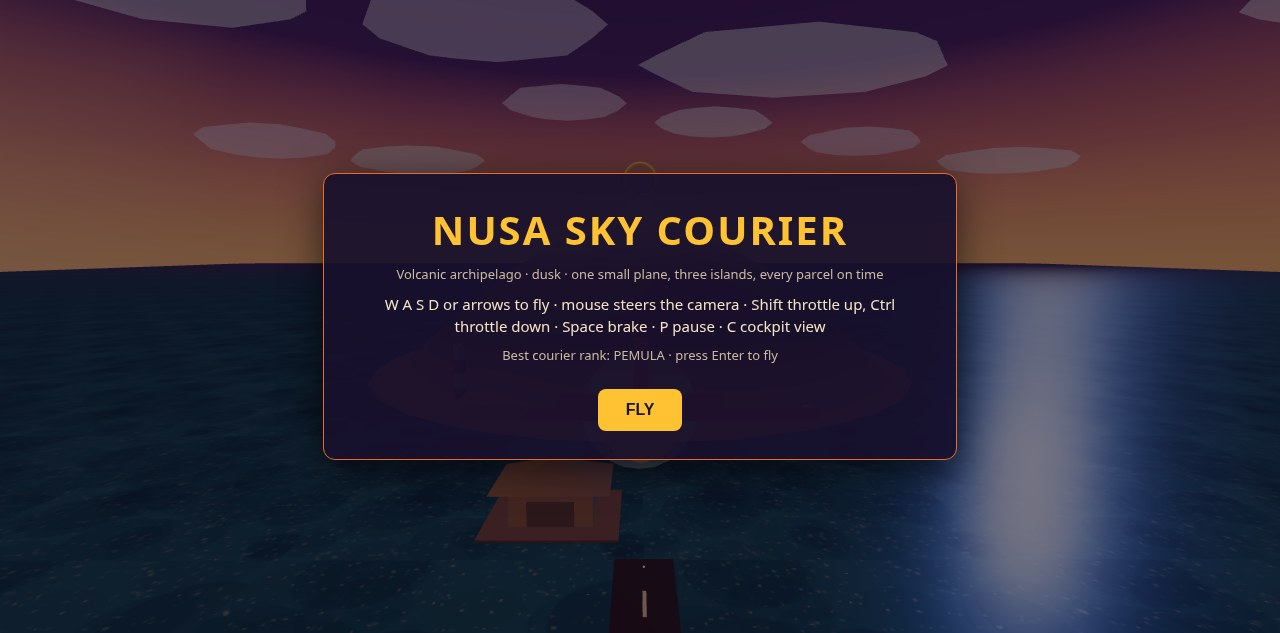
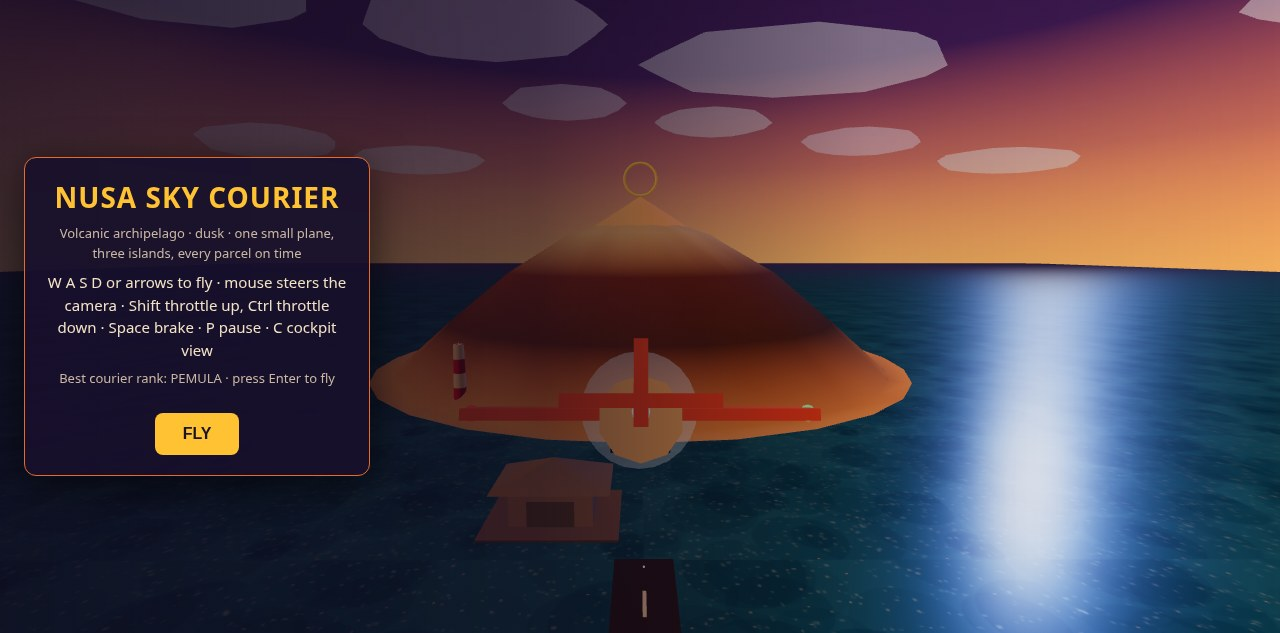
M8-fix (Gemini 2-of-3 AGREE WITH FIXES): shot 1 title docked left-third in shot mode only (volcano+sea+runway beside panel, plane fully clear); shot 3 chase camera yaw +2deg + pitch -80 (ILS mast reads as antenna, tail cross broken by fuselage taper); radar already draws 2 ring blips + plane arrow (

diff --git a/game/src/main.js b/game/src/main.js
@@ -154,6 +154,14 @@ if (shotName) {
   // Cockpit view comes from the shot staging (play = cockpit in M8).
   setCockpit(!!staged.cockpit);
   document.body.classList.toggle('cockpit', isCockpit());
+  // M8-fix, shot 1 only: dock the title card left so the volcano + sea +
+  // runway read beside it on the cover image. Normal play is untouched.
+  if (shotName === 'start') document.body.classList.add('shot-start');
+  // M8-fix, shot 3 only: 2° three-quarter rear chase (breaks the tail's
+  // "red cross" read) + a lower camera (pulls the ILS mast up into the
+  // frame so it reads as an antenna, not a clipped glitch). Other shots
+  // keep the straight chase; shot 4/end is untouched.
+  const shotOrbit = shotName === 'landing' ? { yaw: 2, pitch: -80 } : { yaw: 0, pitch: 0 };
   if (shotName === 'end') {
     run = createMissionRun(MISSIONS[0], world);
     run.status = 'complete';
@@ -170,7 +178,7 @@ if (shotName) {
   pre.textContent = 'PENDING';
   document.body.appendChild(pre);
   renderer.setAnimationLoop(() => {
-    updateScene(view, world, 1 / 30, { yaw: 0, pitch: 0 }, isCockpit());
+    updateScene(view, world, 1 / 30, shotOrbit, isCockpit());
     if (staged.screen === 'play') {
       const missionText = shotName === 'landing' ? 'Final approach — flare before touchdown' : `Cincin ${world.collected}/${world.rings.length}`;
       if (isCockpit()) updateCockpit(world, econ, missionText);

diff --git a/game/index.html b/game/index.html
@@ -31,6 +31,13 @@
   #compass-tape { display: none; position: fixed; top: 0; left: 50%; transform: translateX(-50%); z-index: 5; }
   body.cockpit #cockpit-panel, body.cockpit #compass-tape { display: block; }
   body.cockpit #hud .top-left, body.cockpit #hud .top-right, body.cockpit #hud .bottom-center { display: none; }
+  /* Shot 1 (cover) staging ONLY — set by main.js in ?shot=start mode.
+     The title card docks to the left third and the veil fades to clear on
+     the right, so the volcano, sea glint and runway stay visible beside
+     the panel. The normal title screen is unchanged (centred, full veil). */
+  body.shot-start #screen-title { justify-content: flex-start; padding-left: 24px; background: linear-gradient(to right, rgba(16, 10, 30, 0.8) 0%, rgba(16, 10, 30, 0.62) 42%, rgba(16, 10, 30, 0.15) 68%, rgba(16, 10, 30, 0) 100%); }
+  body.shot-start #screen-title .panel { max-width: 300px; padding: 20px 22px; }
+  body.shot-start #screen-title .panel h1 { font-size: 28px; letter-spacing: 1px; }
 </style>
 <script type="importmap">
 { "imports": { "three": "./vendor/three.module.js" } }
